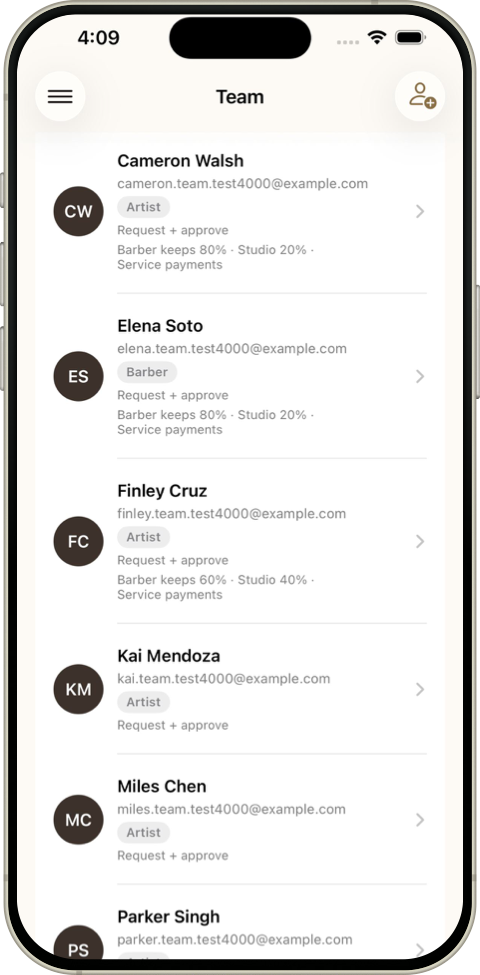
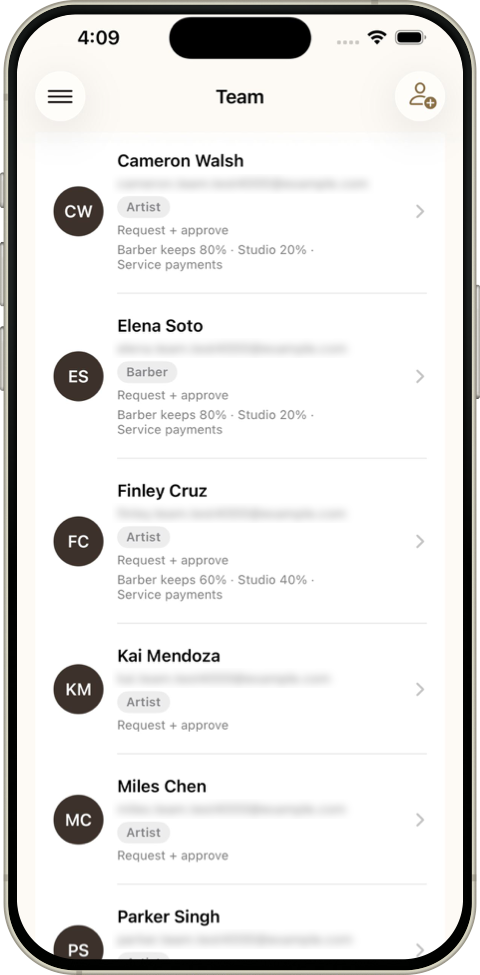
Teams page: blur test emails in the team list screenshot

diff --git a/web/marketing/teams.html b/web/marketing/teams.html
@@ -399,7 +399,7 @@
           </article>
         </div>
         <div class="tm-roles-detail">
-          <img class="tm-roles-phone" src="assets/team/team-list-iphone.png" width="480" height="975" loading="lazy" alt="The Team screen in the app, listing each team member with their job title, booking approval setting, and payment split">
+          <img class="tm-roles-phone" src="assets/team/team-list-iphone.png?v=2" width="480" height="975" loading="lazy" alt="The Team screen in the app, listing each team member with their job title, booking approval setting, and payment split">
         <div class="tm-perms">
           <div class="tm-perms-title">Manager permissions you can switch on</div>
           <div class="msg-check">View all bookings</div>
